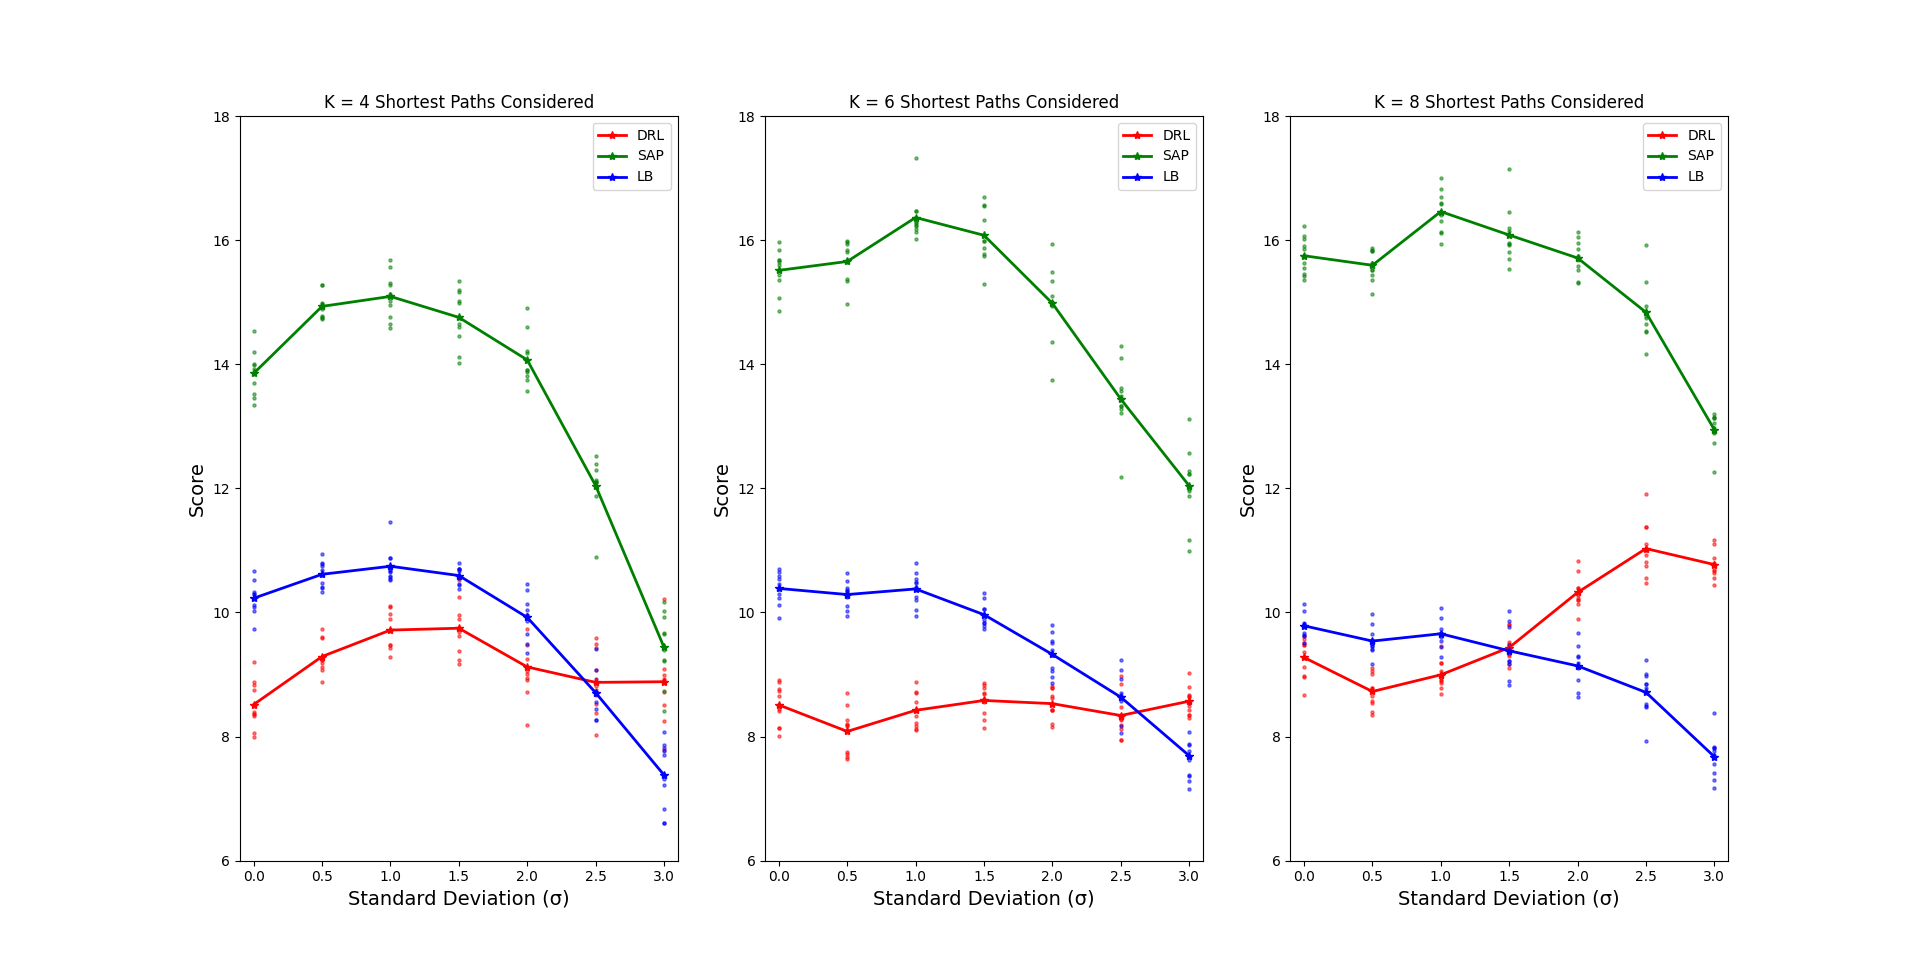
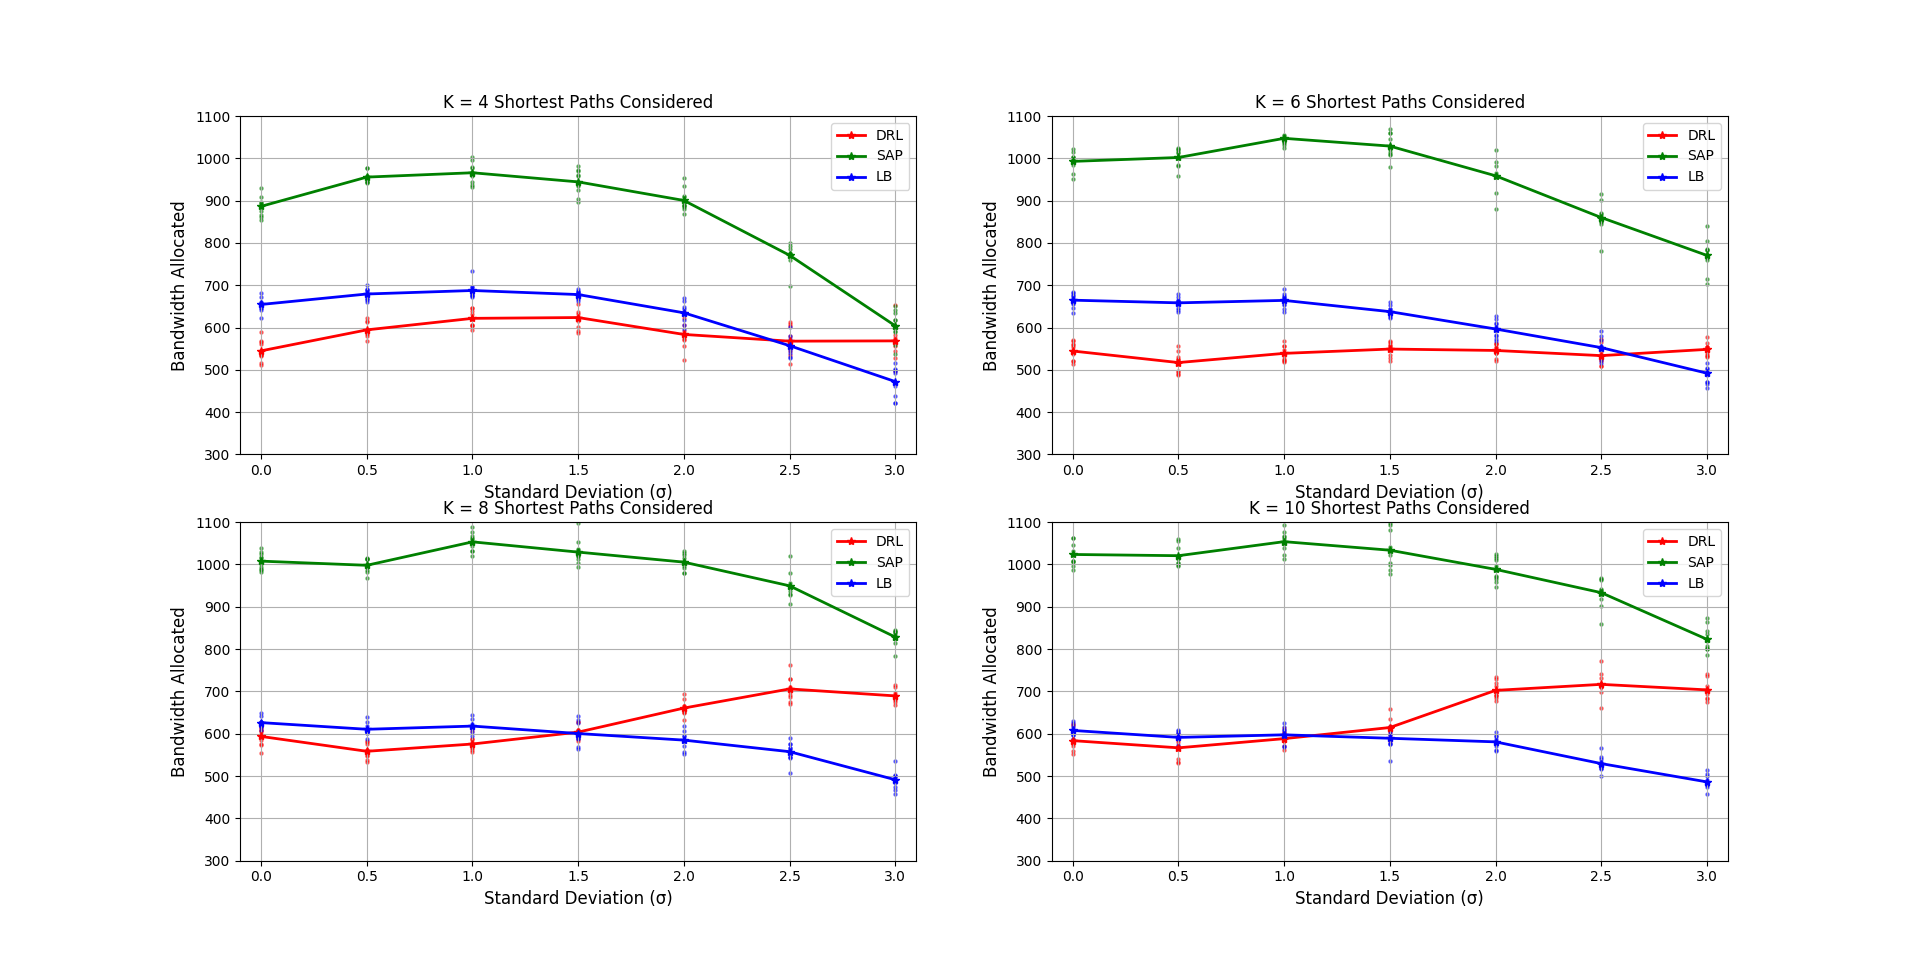
Update Figures (original params)

diff --git a/DQN/draw.py b/DQN/draw.py
@@ -1,7 +1,7 @@
 import matplotlib.pyplot as plt
 import os
 
-f = open("results.txt", "r")
+f = open("results.txt", "r") #_orig_diff_capa
 
 num = []
 
@@ -11,7 +11,7 @@ for line in f:
     num.append(a)
 
 cnt = 1
-for k in (4, 6, 8, 10):
+for k in [4, 6, 8, 10]:
     x = []
     drl = []
     sap = []
@@ -19,9 +19,9 @@ for k in (4, 6, 8, 10):
     for i in range(len(num)):
         if (num[i][1] == k):
             x.append(num[i][0])
-            drl.append(num[i][2])
-            sap.append(num[i][3])
-            lb.append(num[i][4])
+            drl.append(float(num[i][2] * 64))
+            sap.append(float(num[i][3] * 64))
+            lb.append(float(num[i][4] * 64))
     
     x_m = [0, 0.5, 1, 1.5, 2, 2.5, 3]
     drl_m = []
@@ -34,16 +34,16 @@ for k in (4, 6, 8, 10):
         s3 = float(0)
         for i in range(len(num)):
             if ((num[i][1] == k) and (num[i][0] == x_)):
-                s1 = s1 + num[i][2]
-                s2 = s2 + num[i][3]
-                s3 = s3 + num[i][4]
+                s1 = s1 + float(num[i][2] * 64)
+                s2 = s2 + float(num[i][3] * 64)
+                s3 = s3 + float(num[i][4] * 64)
                 t = t + 1
         
         drl_m.append(float(s1 / t))
         sap_m.append(float(s2 / t))
         lb_m.append(float(s3 / t))
     
-    plt.subplot(2, 2, cnt)
+    # plt.subplot(2, 2, cnt)
     d1 = plt.scatter(x, drl, c = "r", s=5, alpha=0.5)
     d2 = plt.scatter(x, sap, c = "g", s=5, alpha=0.5)
     d3 = plt.scatter(x, lb, c = "b", s=5, alpha=0.5)
@@ -57,10 +57,10 @@ for k in (4, 6, 8, 10):
     plt.legend(loc = "upper right")
     
     plt.xlim([-0.1, 3.1])
-    plt.ylim([6, 18])
+    plt.ylim([300, 1100])
     
     plt.xlabel('Standard Deviation (\u03C3)', fontsize=12)
-    plt.ylabel('Score', fontsize=12)
+    plt.ylabel('Bandwidth Allocated', fontsize=12)
     
     plt.title('K = {} Shortest Paths Considered'.format(k))
     

diff --git a/DQN/gym-environments/gym_environments/envs/environment1.py b/DQN/gym-environments/gym_environments/envs/environment1.py
@@ -127,7 +127,7 @@ def compute_link_betweenness(g, k):
     cap = []
 
     for i, j in g.edges():
-        x = mu_bet + 3 * (g.get_edge_data(i, j)['betweenness'] - mu_bet) #!!!
+        x = mu_bet + 0.0 * (g.get_edge_data(i, j)['betweenness'] - mu_bet) #!!!
         cap.append(float(len(g.edges()) * 200 * x / betw_sum))
         g.get_edge_data(i, j)["capacity"] = float(len(g.edges()) * 200 * x / betw_sum) # here
         print(g.get_edge_data(i, j)["capacity"])

diff --git a/DQN/evaluate_DQN.py b/DQN/evaluate_DQN.py
@@ -622,6 +622,6 @@ if __name__ == "__main__":
     #     file.write(str(rewards_dqn[i]) + " " + str(rewards_sap[i]) + " " + str(rewards_lb[i]) + "\n")
     #     file.flush()
     # file.close()
-    file.write(str(3) + " " + str(mean_dqn) + " " + str(mean_sap) + " " + str(mean_lb) + "\n")
+    file.write(str(0.0) + " " + str(hparams['T']) + " " + str(mean_dqn) + " " + str(mean_sap) + " " + str(mean_lb) + "\n")
     file.flush()
     file.close()

diff --git a/DQN/test.py b/DQN/test.py
@@ -3,7 +3,7 @@ import random
 
 random.seed()
 
-cmd_base = "python evaluate_DQN.py -d ./Logs/expsample_DQN_agent_orig_4_Logs.txt"
+cmd_base = "python evaluate_DQN.py -d ./Logs/expsample_DQN_agent_orig_8_Logs.txt"
 
 # size = 40
 for j in range(10):
